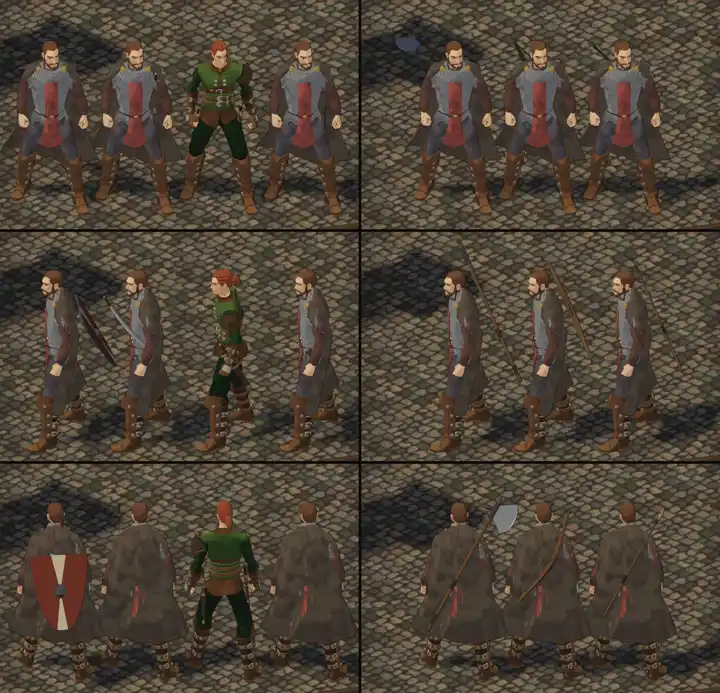
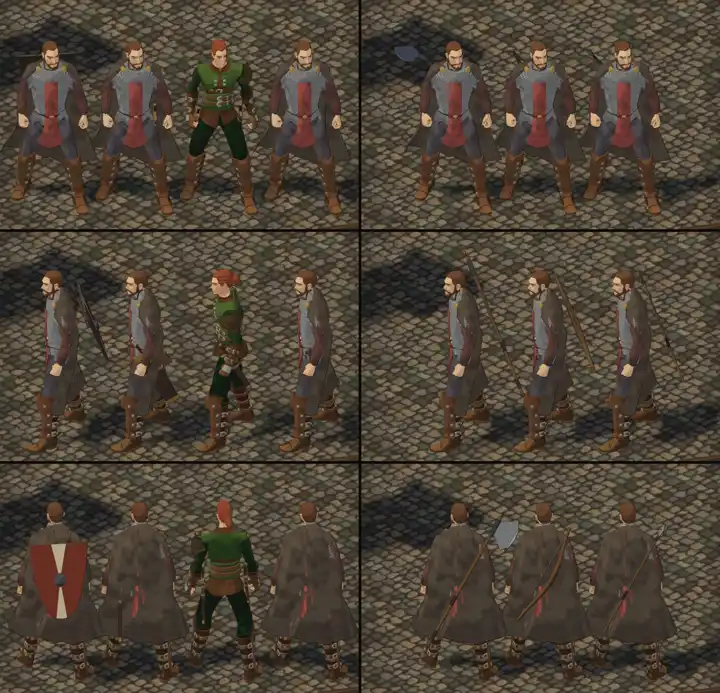
Tom: 376.1 Wegstecken nachgebessert vorgelegt
Claude-Session: https://claude.ai/code/session_01Hmoj79vdf3C8wtR4JL21TF

diff --git a/docs/ARBEIT-TEAM-TOM.md b/docs/ARBEIT-TEAM-TOM.md
@@ -13,7 +13,7 @@ von Sokrates (Chef 11:27): erst Build 143 und Testbitte, dann Ford-Lauf an, weit
 | 399.1 | M | **von Perikles („jetzt“ 28.10., 12:34, Archiv 399):** Spielfassung Dorf und Kampf | wartet auf Test: Build 143 (t143) | `claude/tom-399-spielfassung` |
 | 399.4 | M | **von Chef (21:4x, Archiv):** oben Rand für die Kamera wie alt | wartet auf Test: Build 143 (t143) | – |
 | 410 | M | **von Sokrates (Chef 29.10., 10:52, 11:40; aus 376.1):** Waffen am Körper wegstecken, alle Waffenarten (Zu 410) | startbar: Urteil 11:40 nachbessern | `claude/tom-376-1-wegstecken` |
-| 376.1 | M | **von Sokrates (Archiv 376):** Quaternius-Figuren | wartet auf Test 143: Klassen, Köpfe, Hauttöne abgenommen; Wegstecken 410, Frisuren 411 | `claude/tom-376-1-figuren` |
+| 376.1 | M | **von Sokrates (Archiv 376):** Quaternius-Figuren | wartet auf Chef: Wegstecken nachgebessert vorgelegt (Chefsache 3761-wegstecken, Zweig claude/tom-376-1-wegstecken a423c2d9c); Frisuren abgenommen 11:43; offen Magier-Knie durch Robe | `claude/tom-376-1-figuren` |
 | 399.5 | M | **von Chef („jetzt“ 28.10., 21:5x, Archiv):** Innenräume wie alt: Lichtquellen, Licht und Schatten, Einrichtung mit Liebe zum Detail; Fenster und Türen außen wie innen | wartet auf Test: Build 143 (t143) | – |
 | 399.3.1 | M | **von Team Jerry (16:5x):** Klang: Haken in `spiel.gd` (Jerry, `claude/jerry-348-klang`) übernehmen; Menü System: Regler wie SoundSettings über `Klang.stelle` | wartet auf Test: Build 143 (t143) | – |
 | 385 | M | **von Sokrates („jetzt“ 28.10., 10:00, Archiv):** Zauberer-Set auf Kaufkörper, Film | wartet auf Chef: Kaufpakete nötig, Freigabe wie Chefsache 403 (add_repo in Tom 29.10., 03:4x abgelehnt); 385.1 ja (Archiv); Feuer an Jerry (385.2) |

diff --git a/docs/LISTE-VORGAENGE.md b/docs/LISTE-VORGAENGE.md
@@ -79,7 +79,7 @@ Eine Zeile je Vorgang (113), für den Überblick und die Kosten. **Wird beim Sta
 | 340.2 | Rollenspiegel C: `tools/rollenspiegel.sh`, eigene Antwort ohne fremde | B Abläufe | M | –; +6,35 $ | Sokrates | gebaut |
 | 338.1 | Stand zum Marktstart: jeden Montag eine Seite für den Chef, Ampel je Block (Chef 23.10., 09:01: Stand wird ihm nie vorgelegt) | B Abläufe | M | 13,47 $ | Perikles | wartet |
 | 376 | Quaternius-Bausätze (Dorf, Natur, Dungeon, Outfits) und gedrehte Häuser prüfen (Chef 27.10., 12:00) | E Welt | M | 38,96 $ | Sokrates | wartet |
-| 376.1 | Probeblatt Quaternius-Figuren mit Bewegungsraster als Film (Chef kaufte 27.10., 12:20) | E Figuren | M | 160,52 $ | Team Tom | in Arbeit |
+| 376.1 | Probeblatt Quaternius-Figuren mit Bewegungsraster als Film (Chef kaufte 27.10., 12:20) | E Figuren | M | 160,52 $ | Team Tom | Chef |
 | 376.2 | RenderHub-Marktpaket: Brunnen, Stände als Form (Chef 27.10., 12:37) | E Welt | M | – | Team Tom | wartet |
 | 374 | Wer prüft regelmäßig, dass alle 373 einhalten? (Chef 27.10., 11:54) | B Abläufe | M | 11,70 $ | Perikles, Diogenes, Sokrates | offen |
 | 372 | Feinschliff Held am Ende des Umzugs: Kettenhemd, Helm, Kragen (aus 338a B, Chef 27.10., 09:36) | E Figuren | M | – | Team Tom | ruht |

diff --git a/docs/chefsache/ansehen/3761-wegstecken.md b/docs/chefsache/ansehen/3761-wegstecken.md
@@ -1,0 +1,22 @@
+# 376.1 · Waffen wegstecken, nachgebessert · Tom · 29.10., 11:50
+
+![376.1 Klassen](../bilder/3761-klassen.webp)
+
+Nachgebessert nach deinem Urteil von 11:40 und dem Befund des Prüfers:
+- **Schild:** sitzt jetzt hoch, die Oberkante 3 cm unter der Schulter. Vorher lag sie 13 cm darunter.
+- **Kämpfer:** Griff und Parierstange des Schwerts ragen über die Schildkante, über der rechten Schulter.
+- **Kleriker:** Der Stab liegt steiler unter dem Schild und geht nicht mehr durch die Schulter.
+- **Zauberer:** Der Stab folgt der Neigung des Rückens.
+
+![376.1 Waffen](../bilder/3761-waffen.webp)
+
+- **Links:** Handbeil unter dem Schild, nur das Griffende schaut heraus; Krummsäbel in der Scheide (vorher blank vor der Brust); Kurzschwert und Dolch in zwei Scheiden; Handbeil in der Gürtelschlaufe.
+- **Rechts:** Großaxt, Kurzbogen und Speer auf dem Rücken, dicht am Umhang.
+
+Noch offen: Beim Zauberer stechen die Knie durch die Robe. Das ist ein Fehler der Tracht, nicht des Wegsteckens, und kommt als eigener Schritt. Die Frisuren sind abgenommen (11:43).
+
+Großbild: Telegram 29.10., 11:50.
+
+**Was du sagen sollst:** Passt das Wegstecken so?
+
+Erledigt: Datei löschen.
